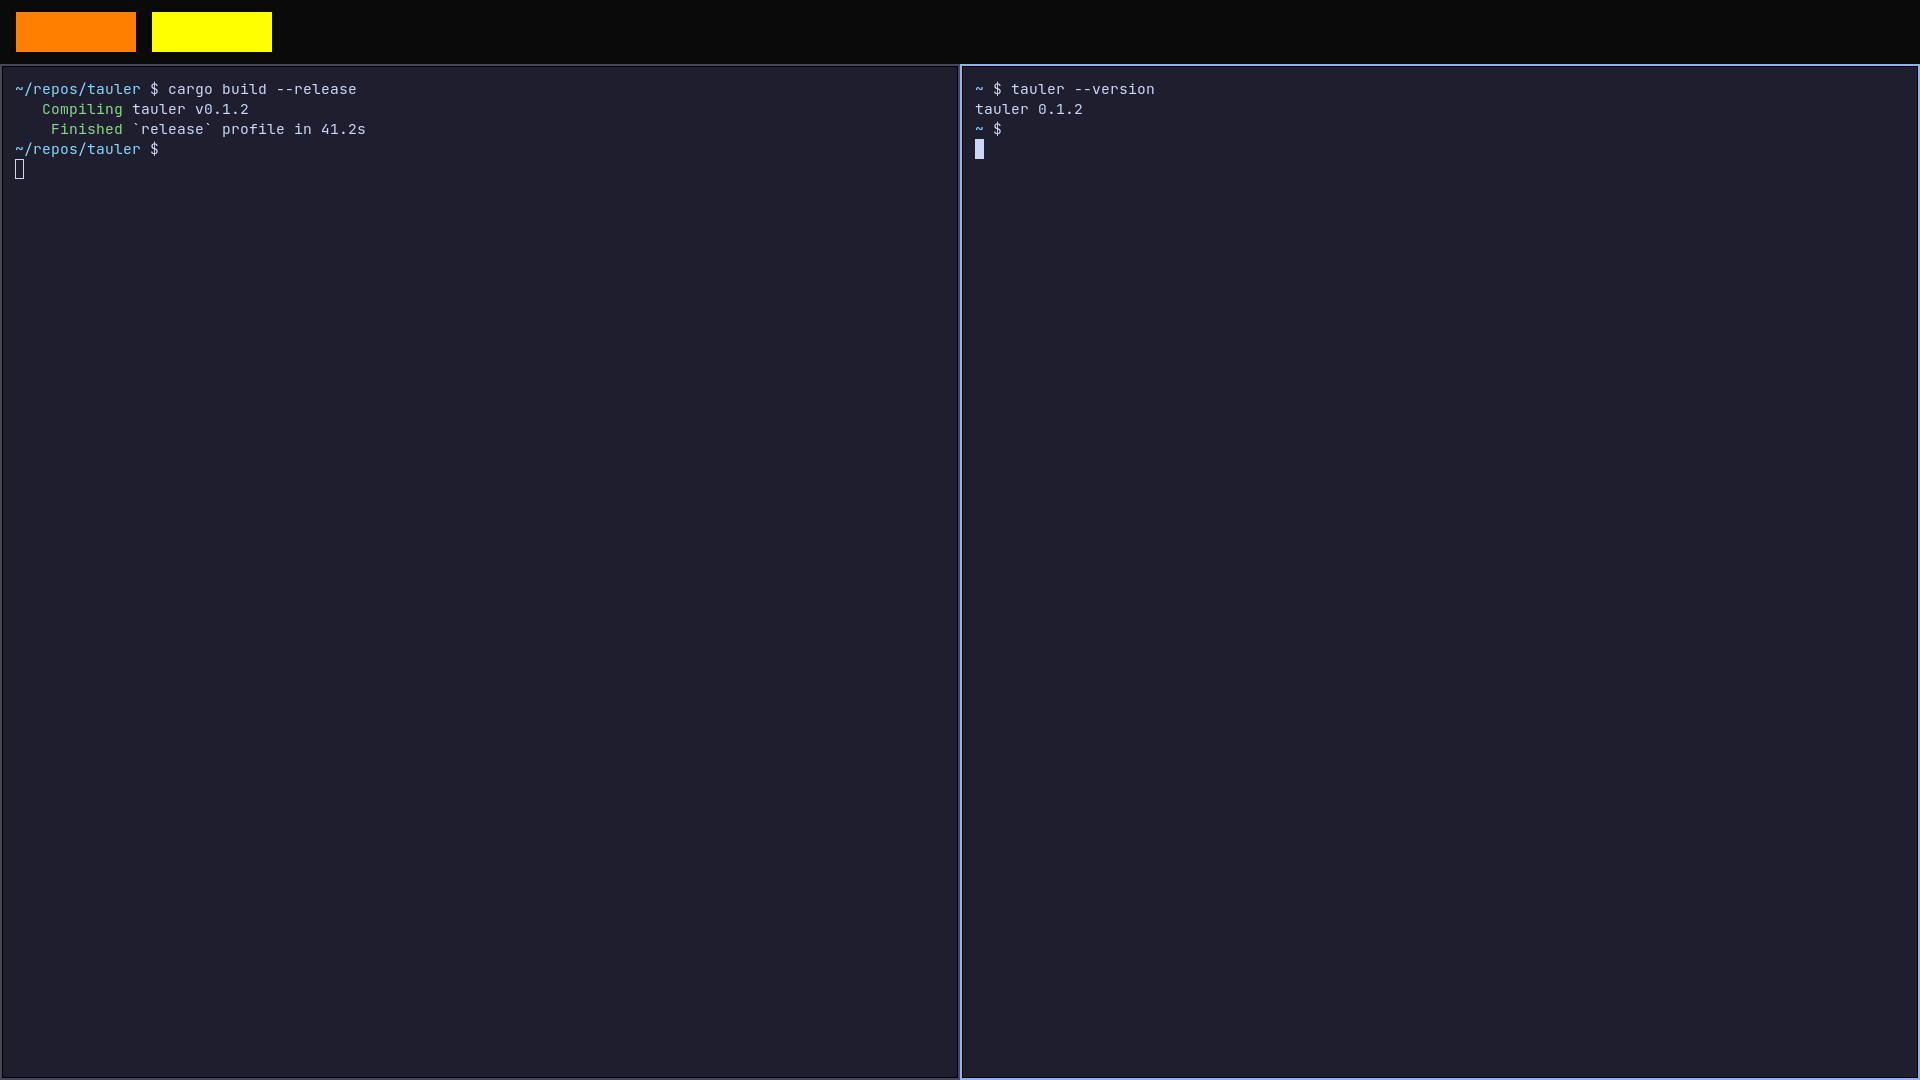
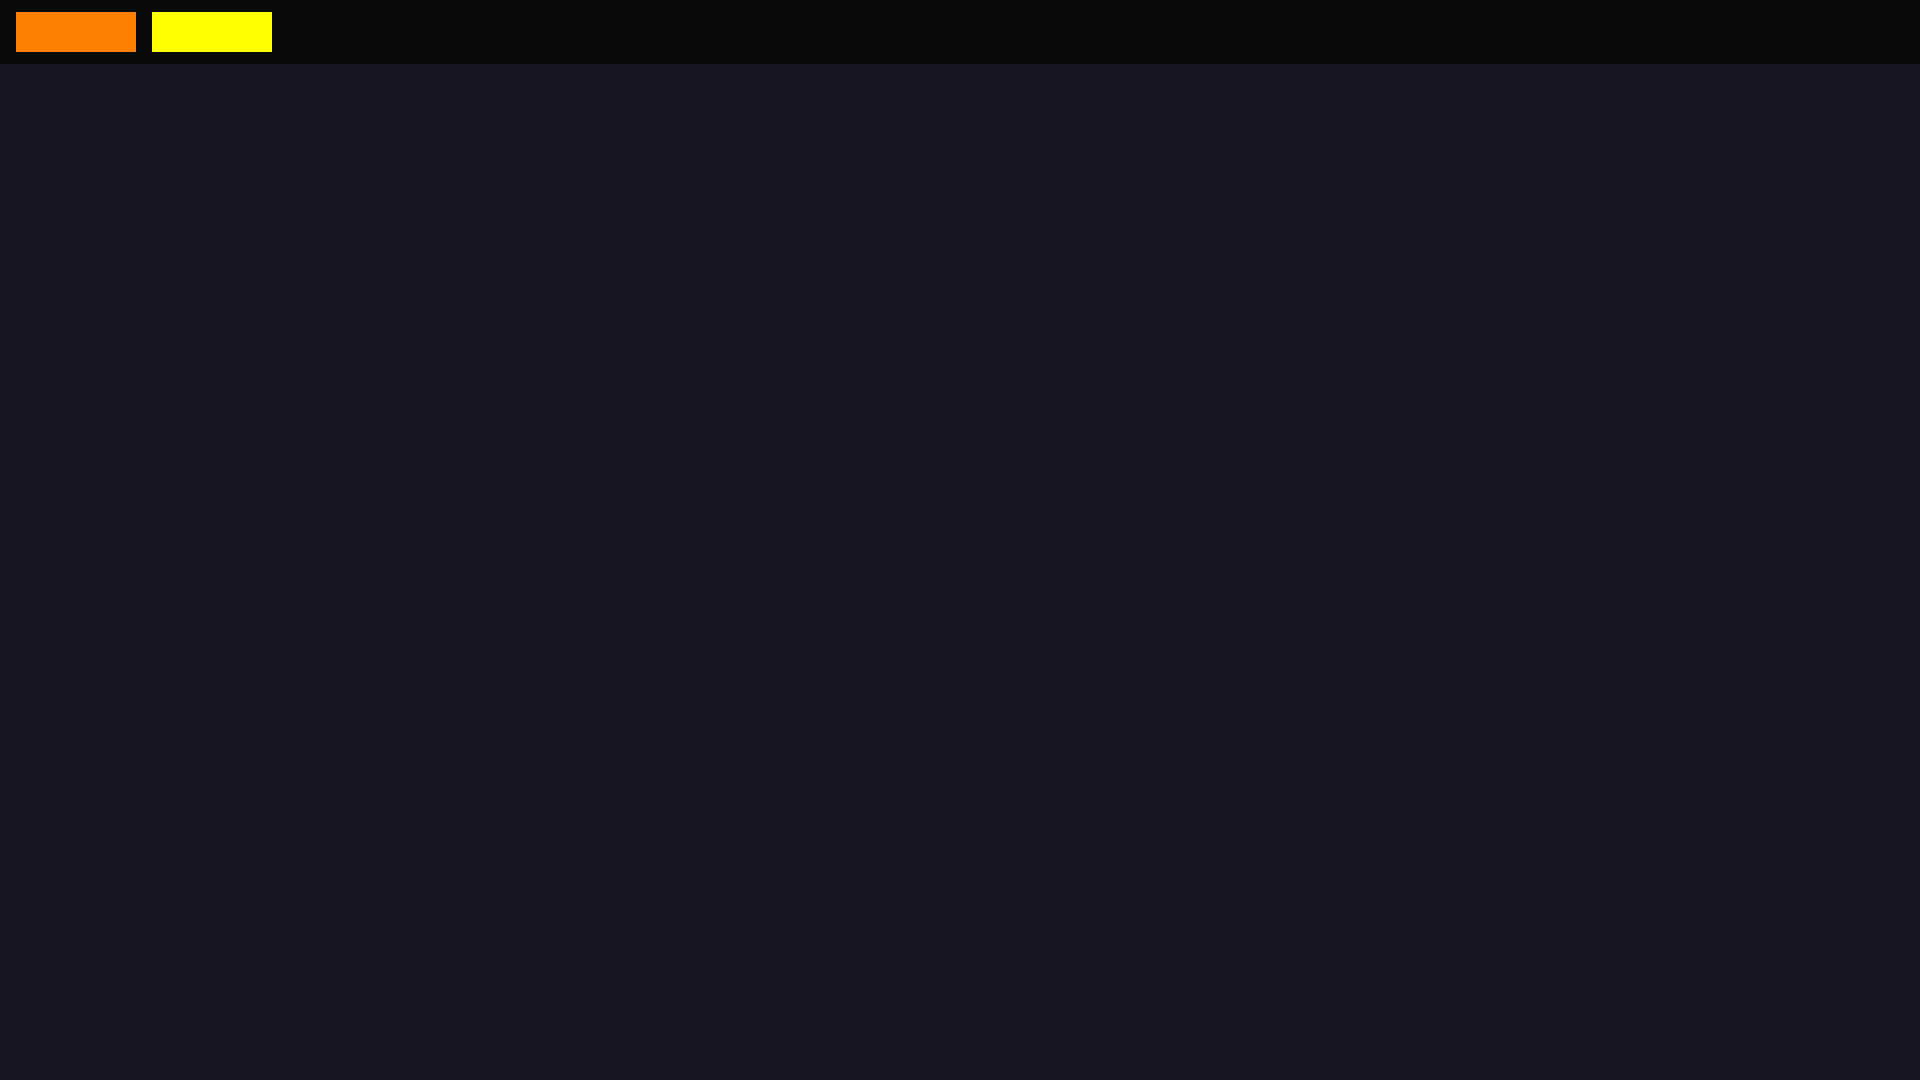
test: verify that D3 works on wayland (#811)
fixes #677

Changed region(s): [[0.0, 0.9778, 1.0, 1.0], [0.0, 0.0611, 0.1875, 0.1528], [0.5, 0.0611, 0.5938, 0.1528]]

diff --git a/tauler-e2e/tests/scenarios.rs b/tauler-e2e/tests/scenarios.rs
@@ -649,19 +649,6 @@ const CYAN: [u8; 3] = [0x00, 0xff, 0xff];
 /// What the reload scenario rewrites `MAGENTA` to in the fixture.
 const ORANGE: [u8; 3] = [0xff, 0x80, 0x00];
 
-fn d3_figure_expected() -> Expected {
-    Expected {
-        gaps: Gaps {
-            left: 0,
-            right: 0,
-            top: 64,
-            bottom: 0,
-        },
-        panels: vec![rect(0, 0, 1920, 64)],
-        clients: 2,
-    }
-}
-
 /// Poll fresh frames until the pixel at `at` is exactly `rgb`.
 ///
 /// Fresh frames, not `capture_stable`: the live figure flips every 2 seconds,
@@ -697,17 +684,11 @@ fn wait_for_colour(desktop: &Desktop, what: &str, at: (u32, u32), rgb: [u8; 3]) 
 /// its colour with it. Seeing both colours at the same pixel is the claim:
 /// a figure whose redraw was skipped, or whose Picture was never swapped,
 /// shows one colour for good.
-#[test]
-#[ignore = "needs Docker and `just e2e-image`"]
-fn d3_figure_draws_and_redraws_when_its_key_changes() -> Result<()> {
-    let (desktop, _) = run(
-        "d3-figure",
-        "d3-figure-draws-and-redraws-when-its-key-changes",
-        d3_figure_expected(),
-    )?;
+fn d3_figure_draws_and_redraws_when_its_key_changes(backend: Backend) -> Result<()> {
+    let desktop = Desktop::start_on(backend, "d3-figure", Screen::default())?;
 
     // The download, the reload it triggers and the first draw all happen
-    // after the bar is up, so `run`'s screenshot may well show an empty bar.
+    // after the bar is up, so the bar may well be empty for a while.
     wait_for_colour(
         &desktop,
         "the first figure to be drawn (d3 + linkedom downloaded, then drawn)",
@@ -727,8 +708,8 @@ fn d3_figure_draws_and_redraws_when_its_key_changes() -> Result<()> {
         CYAN,
     )?;
 
-    // Photograph the bar with both figures drawn, replacing `run`'s early
-    // capture as this scenario's desktop.png and gallery shot.
+    // Photograph the bar with both figures drawn as this scenario's desktop.png
+    // (and, on i3, its gallery shot).
     let screenshot = desktop.capture_stable()?;
     let [r, g, b, _] = pixel_at(&screenshot, D3_STATIC.0, D3_STATIC.1)?;
     assert_eq!(
@@ -736,11 +717,25 @@ fn d3_figure_draws_and_redraws_when_its_key_changes() -> Result<()> {
         MAGENTA,
         "the static figure stopped showing its drawing while the live one was redrawn"
     );
-    save_devtools_shot(
-        "d3-figure-draws-and-redraws-when-its-key-changes",
-        &screenshot,
-    )?;
+    if backend == Backend::I3 {
+        save_devtools_shot(
+            "d3-figure-draws-and-redraws-when-its-key-changes",
+            &screenshot,
+        )?;
+    }
     Ok(())
+}
+
+#[test]
+#[ignore = "needs Docker and `just e2e-image`"]
+fn d3_figure_draws_and_redraws_when_its_key_changes_on_i3() -> Result<()> {
+    d3_figure_draws_and_redraws_when_its_key_changes(Backend::I3)
+}
+
+#[test]
+#[ignore = "needs Docker and `just e2e-image`"]
+fn d3_figure_draws_and_redraws_when_its_key_changes_on_sway() -> Result<()> {
+    d3_figure_draws_and_redraws_when_its_key_changes(Backend::Sway)
 }
 
 /// A layout reload draws every figure again — its `draw` may have changed —
@@ -752,18 +747,12 @@ fn d3_figure_draws_and_redraws_when_its_key_changes() -> Result<()> {
 /// show the old one: a frame with neither means the figure blanked during the
 /// reload, which is exactly what keeping the previous Picture is for.
 ///
-/// This samples as fast as `scrot` over `docker exec` allows (a frame every
+/// This samples as fast as the capture tool over `docker exec` allows (a frame every
 /// few hundred ms), so a blank shorter than that can slip between two samples.
 /// It catches a figure that is gone for the length of a draw, not a single
 /// dropped frame.
-#[test]
-#[ignore = "needs Docker and `just e2e-image`"]
-fn d3_figure_keeps_its_drawing_across_a_reload() -> Result<()> {
-    let (desktop, _) = run(
-        "d3-figure",
-        "d3-figure-keeps-its-drawing-across-a-reload",
-        d3_figure_expected(),
-    )?;
+fn d3_figure_keeps_its_drawing_across_a_reload(backend: Backend) -> Result<()> {
+    let desktop = Desktop::start_on(backend, "d3-figure", Screen::default())?;
     wait_for_colour(&desktop, "the first figure to be drawn", D3_STATIC, MAGENTA)?;
 
     desktop.exec(&[
@@ -798,8 +787,22 @@ fn d3_figure_keeps_its_drawing_across_a_reload() -> Result<()> {
     eprintln!("e2e: d3-figure reload · {before} frames of the old drawing before the new one");
 
     let screenshot = desktop.capture_stable()?;
-    save_devtools_shot("d3-figure-keeps-its-drawing-across-a-reload", &screenshot)?;
+    if backend == Backend::I3 {
+        save_devtools_shot("d3-figure-keeps-its-drawing-across-a-reload", &screenshot)?;
+    }
     Ok(())
+}
+
+#[test]
+#[ignore = "needs Docker and `just e2e-image`"]
+fn d3_figure_keeps_its_drawing_across_a_reload_on_i3() -> Result<()> {
+    d3_figure_keeps_its_drawing_across_a_reload(Backend::I3)
+}
+
+#[test]
+#[ignore = "needs Docker and `just e2e-image`"]
+fn d3_figure_keeps_its_drawing_across_a_reload_on_sway() -> Result<()> {
+    d3_figure_keeps_its_drawing_across_a_reload(Backend::Sway)
 }
 
 /// Assert the reservation contract, then hand back the desktop and its
@@ -969,20 +972,39 @@ const WALLPAPER: [u8; 3] = [0xcc, 0x33, 0x66];
 /// The panel's fill in the same fixture, `#1e1e2e`.
 const RAIL: [u8; 3] = [0x1e, 0x1e, 0x2e];
 
+/// The first bar of the chart in the same fixture, `#f9e2af`. It is the tallest
+/// bar, so it fills its column from the plot's top to the axis; the probe point
+/// (16px of panel padding + 83 across the figure, 616 + 170 down) is touched by
+/// no gridline, label or line.
+const BAR: [u8; 3] = [0xf9, 0xe2, 0xaf];
+const BAR_PROBE: (u32, u32) = (16 + 83, 616 + 170);
+
+/// How much of `fixtures/wallpaper-panel` to wait for before photographing it.
+#[derive(Clone, Copy, PartialEq, PartialOrd)]
+enum Painted {
+    Wallpaper,
+    Panel,
+    /// The d3 chart as well: its first draw follows the d3 + linkedom download.
+    Chart,
+}
+
 /// Start `fixtures/wallpaper-panel` on `backend` and photograph it once the
-/// wallpaper — and, if `wait_for_panel`, the panel — has painted.
+/// wallpaper — and, as far as `painted` says, the panel and the chart — has painted.
 ///
 /// Waiting for the surfaces rather than for the screen to settle matters: tauler
 /// paints them separately, and a screen showing only the first is just as
 /// "stable" as a finished one. On Wayland the first frame is also held until the
 /// compositor's configure.
-fn wallpaper_panel_shot(backend: Backend, wait_for_panel: bool) -> Result<(Desktop, PathBuf)> {
+fn wallpaper_panel_shot(backend: Backend, painted: Painted) -> Result<(Desktop, PathBuf)> {
     let desktop = Desktop::start_on(backend, "wallpaper-panel", Screen::default())?;
     let screen = desktop.screen();
 
     let mut probes = vec![((screen.width - 8, 8), WALLPAPER, "wallpaper")];
-    if wait_for_panel {
+    if painted >= Painted::Panel {
         probes.push(((136, screen.height / 2), RAIL, "panel"));
+    }
+    if painted >= Painted::Chart {
+        probes.push((BAR_PROBE, BAR, "chart"));
     }
     let shot = wait_for(&format!("{backend:?}: the surfaces to paint"), || {
         let shot = desktop.capture_stable()?;
@@ -1040,7 +1062,7 @@ fn assert_panel(backend: Backend, shot: &Path, screen: Screen) -> Result<()> {
 /// is explicit: a desktop that cannot paint a wallpaper fails the assertion the
 /// other passes.
 fn wallpaper(backend: Backend) -> Result<()> {
-    let (desktop, shot) = wallpaper_panel_shot(backend, false)?;
+    let (desktop, shot) = wallpaper_panel_shot(backend, Painted::Wallpaper)?;
     assert_wallpaper(backend, &shot, desktop.screen())
 }
 
@@ -1064,7 +1086,7 @@ fn wallpaper_on_sway() -> Result<()> {
 /// configure, because nothing re-renders a static panel afterwards. (A bar with
 /// a clock would hide the bug at its next tick.)
 fn panel_over_wallpaper(backend: Backend) -> Result<()> {
-    let (desktop, shot) = wallpaper_panel_shot(backend, true)?;
+    let (desktop, shot) = wallpaper_panel_shot(backend, Painted::Panel)?;
     assert_wallpaper(backend, &shot, desktop.screen())?;
     assert_panel(backend, &shot, desktop.screen())
 }
@@ -1079,6 +1101,29 @@ fn panel_over_wallpaper_on_i3() -> Result<()> {
 #[ignore = "needs Docker and `just e2e-image`"]
 fn panel_over_wallpaper_on_sway() -> Result<()> {
     panel_over_wallpaper(Backend::Sway)
+}
+
+/// The same fixture must paint the same picture on both desktops, to the pixel.
+///
+/// The frames are taken once the d3 chart in the panel has drawn on both, so
+/// this covers text, strokes and anti-aliased edges, not just flat fills.
+///
+/// Both desktops get the same 1920x1080 screen and fixture; the compositor's own
+/// background is fully covered by the wallpaper, so any difference is tauler's
+/// rendering or the compositor's presentation of it.
+#[test]
+#[ignore = "needs Docker and `just e2e-image`"]
+fn wallpaper_panel_frames_match_across_backends() -> Result<()> {
+    let (_i3, i3_shot) = wallpaper_panel_shot(Backend::I3, Painted::Chart)?;
+    let (_sway, sway_shot) = wallpaper_panel_shot(Backend::Sway, Painted::Chart)?;
+    let diff = tauler_e2e::diff_frames(&i3_shot, &sway_shot)?;
+    assert!(
+        diff.is_identical(),
+        "i3 and Sway frames differ: {diff}\n(i3: {}, sway: {})",
+        i3_shot.display(),
+        sway_shot.display()
+    );
+    Ok(())
 }
 
 /// The left output's wallpaper in `fixtures/two-outputs`, `#cc3366`, and the

diff --git a/tauler-e2e/src/lib.rs b/tauler-e2e/src/lib.rs
@@ -408,6 +408,75 @@ pub fn pixel_at(png: &Path, x: u32, y: u32) -> Result<[u8; 4]> {
     Ok(px.0)
 }
 
+/// How two captured frames differ, from [`diff_frames`].
+#[derive(Debug, Clone, PartialEq, Eq)]
+pub struct FrameDiff {
+    /// `(width, height)` of each frame, when they are not the same size; no
+    /// pixels are compared then.
+    pub size_mismatch: Option<((u32, u32), (u32, u32))>,
+    /// Pixels that are not exactly equal (all four channels).
+    pub differing: u64,
+    /// The first differing pixel in row-major order: `(x, y, left, right)`.
+    pub first: Option<(u32, u32, [u8; 4], [u8; 4])>,
+}
+
+impl FrameDiff {
+    pub fn is_identical(&self) -> bool {
+        self.size_mismatch.is_none() && self.differing == 0
+    }
+}
+
+impl std::fmt::Display for FrameDiff {
+    fn fmt(&self, f: &mut std::fmt::Formatter<'_>) -> std::fmt::Result {
+        if let Some(((lw, lh), (rw, rh))) = self.size_mismatch {
+            return write!(f, "sizes differ: {lw}x{lh} vs {rw}x{rh}");
+        }
+        match self.first {
+            None => write!(f, "identical"),
+            Some((x, y, left, right)) => write!(
+                f,
+                "{} differing pixels, first at ({x}, {y}): {left:?} vs {right:?}",
+                self.differing
+            ),
+        }
+    }
+}
+
+/// Compare two PNGs pixel for pixel, with zero tolerance.
+pub fn diff_frames(left: &Path, right: &Path) -> Result<FrameDiff> {
+    let open = |p: &Path| -> Result<image::RgbaImage> {
+        Ok(image::open(p)
+            .with_context(|| format!("decoding {}", p.display()))?
+            .to_rgba8())
+    };
+    let (l, r) = (open(left)?, open(right)?);
+    Ok(diff_images(&l, &r))
+}
+
+fn diff_images(l: &image::RgbaImage, r: &image::RgbaImage) -> FrameDiff {
+    if l.dimensions() != r.dimensions() {
+        return FrameDiff {
+            size_mismatch: Some((l.dimensions(), r.dimensions())),
+            differing: 0,
+            first: None,
+        };
+    }
+    let mut differing = 0;
+    let mut first = None;
+    for (x, y, a) in l.enumerate_pixels() {
+        let b = r.get_pixel(x, y);
+        if a != b {
+            differing += 1;
+            first.get_or_insert((x, y, a.0, b.0));
+        }
+    }
+    FrameDiff {
+        size_mismatch: None,
+        differing,
+        first,
+    }
+}
+
 /// Parse the geometry of each child in `xwininfo -root -children` output.
 ///
 /// The lines look like:
@@ -503,6 +572,20 @@ xwininfo: Window id: 0x2e (the root window) (has no name)
                 },
             ]
         );
+    }
+
+    #[test]
+    fn frame_diff_reports_count_and_first_pixel() {
+        let a = image::RgbaImage::from_pixel(4, 3, image::Rgba([1, 2, 3, 255]));
+        let mut b = a.clone();
+        assert!(diff_images(&a, &b).is_identical());
+        b.put_pixel(2, 1, image::Rgba([9, 2, 3, 255]));
+        b.put_pixel(0, 2, image::Rgba([1, 9, 3, 255]));
+        let d = diff_images(&a, &b);
+        assert_eq!(d.differing, 2);
+        assert_eq!(d.first, Some((2, 1, [1, 2, 3, 255], [9, 2, 3, 255])));
+        let c = image::RgbaImage::new(5, 3);
+        assert!(diff_images(&a, &c).size_mismatch.is_some());
     }
 
     #[test]
